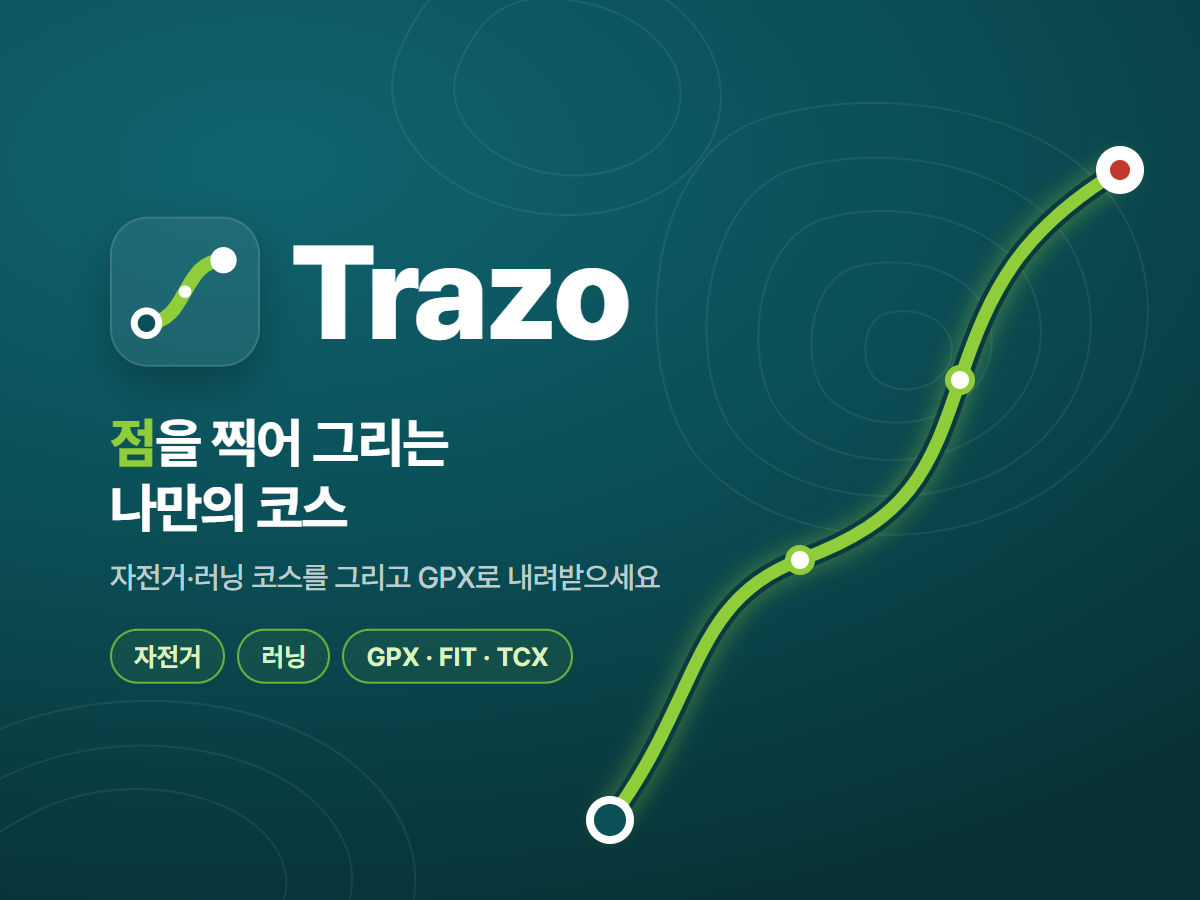
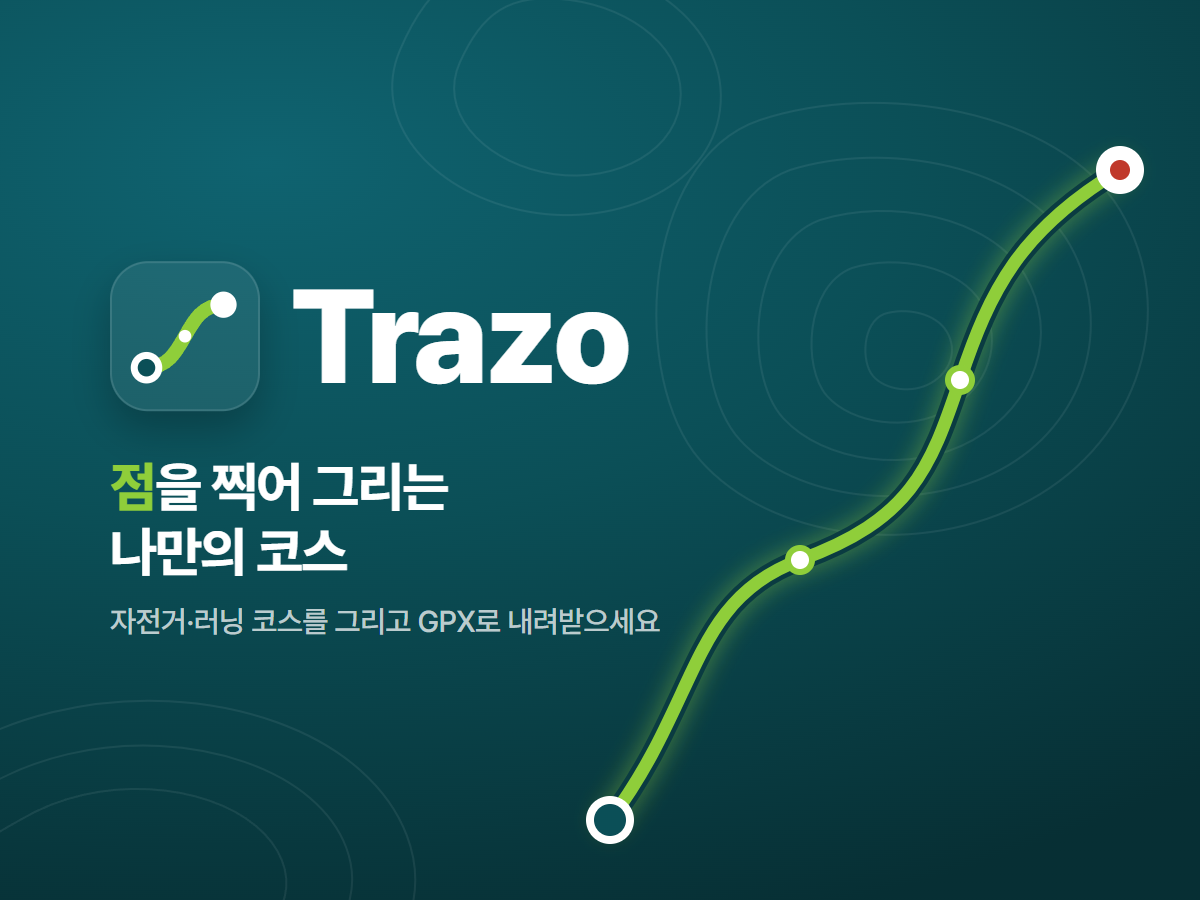
feat: 공유 링크 미리보기에 코스 이름 표시, 데스크톱 경로 위 클릭·우클릭 수정
- 공유 코스 링크(/c/<토큰>)를 카카오톡 등에 붙이면 코스 이름이 제목,
  'Trazo · 점을 찍어 그리는 나만의 코스'와 거리·상승 고도가 부제목으로 보이도록
  - 백엔드 GET /og/c/{token}이 태그를 만들고 nginx SSI가 index.html에 끼워 넣음
  - 비공개·삭제된 코스는 이름을 드러내지 않고, 백엔드가 응답하지 않으면 기본 제목만 넣음
  - 이미지·주소를 고정 도메인 대신 접속한 도메인 기준으로 만듦 (코스 이미지 바닥글도 동일)
- 미리보기 이미지에서 자전거·러닝·GPX FIT TCX 배지 제거
- 데스크톱에서 경로 위 클릭(웨이포인트 추가)과 우클릭(로드뷰 메뉴)이 동작하지 않던 문제 수정
  - 커서 아래에 생기는 위치 점(카카오 마커)이 클릭을 가로채던 것을 이벤트를 통과시키는 오버레이로 바꿈

Changed region(s): [[0.0925, 0.4667, 0.555, 0.7778], [0.2467, 0.2489, 0.5242, 0.4356], [0.0925, 0.2489, 0.2158, 0.4356]]

diff --git a/frontend/index.html b/frontend/index.html
@@ -7,22 +7,30 @@
   <link rel="icon" type="image/svg+xml" href="/favicon.svg" />
   <link rel="apple-touch-icon" href="/apple-touch-icon.png" />
   <meta name="theme-color" content="#0B4F57" />
+  <!--
+    카카오톡·페이스북·슬랙 등의 링크 미리보기 (이미지 원본은 design/og-image.html).
+    운영 nginx가 SSI로 처리합니다: 공유 코스 링크(/c/<토큰>)는 백엔드가 만든 코스 이름 태그를 넣고,
+    다른 주소는 아래 기본 태그를 접속한 도메인 기준으로 씁니다. 개발 서버에서는 SSI 주석이 그대로 남습니다.
+  -->
+  <!--# if expr="$request_uri = /^\/c\/([A-Za-z0-9_-]{6,64})(?:[\/?]|\z)/" -->
+  <!--# block name="og_fallback" --><title>Trazo (트라소) | 점을 찍어 그리는 나만의 코스</title><!--# endblock -->
+  <!--# include virtual="/api/og/c/$1" stub="og_fallback" -->
+  <!--# else -->
   <title>Trazo (트라소) | 자전거·러닝 코스 GPX 만들기</title>
   <meta name="description" content="지도 위에 점을 찍어 자전거·러닝 코스를 만드는 Trazo(트라소). 종목에 맞는 길찾기로 경로와 고도를 확인하고 GPX 파일로 내려받으세요." />
-  <!-- 카카오톡·페이스북·슬랙 등의 링크 미리보기. 이미지 원본은 design/og-image.html입니다. -->
   <meta property="og:type" content="website" />
   <meta property="og:site_name" content="Trazo" />
   <meta property="og:locale" content="ko_KR" />
-  <meta property="og:url" content="https://trazo.kro.kr/" />
+  <meta property="og:url" content="https://<!--# echo var='host' default='' -->/" />
   <meta property="og:title" content="Trazo (트라소) | 점을 찍어 그리는 나만의 코스" />
   <meta property="og:description" content="지도 위에 점을 찍어 자전거·러닝 코스를 만들고, 고도와 경사를 확인해 GPX·FIT 파일로 내려받으세요." />
-  <meta property="og:image" content="https://trazo.kro.kr/og-image.png" />
+  <meta property="og:image" content="https://<!--# echo var='host' default='' -->/og-image.png" />
   <meta property="og:image:width" content="1200" />
   <meta property="og:image:height" content="900" />
-  <meta property="og:image:alt" content="Trazo 로고와 '점을 찍어 그리는 나만의 코스' 소개 문구" />
   <meta name="twitter:card" content="summary_large_image" />
   <meta name="twitter:title" content="Trazo (트라소) | 점을 찍어 그리는 나만의 코스" />
-  <meta name="twitter:image" content="https://trazo.kro.kr/og-image.png" />
+  <meta name="twitter:image" content="https://<!--# echo var='host' default='' -->/og-image.png" />
+  <!--# endif -->
   <link rel="preconnect" href="https://cdn.jsdelivr.net" crossorigin />
   <link rel="stylesheet" href="https://cdn.jsdelivr.net/gh/orioncactus/pretendard@v1.3.9/dist/web/variable/pretendardvariable-dynamic-subset.min.css" />
   <script type="text/javascript" src="//dapi.kakao.com/v2/maps/sdk.js?appkey=c3b4179a9bd3e0eb5e124c5e0cc5da49"></script>

diff --git a/frontend/src/App.jsx b/frontend/src/App.jsx
@@ -4,7 +4,7 @@ import { useState, useCallback, useRef, useEffect, useMemo } from 'react';
 import { Map, MapMarker, Polyline, CustomOverlayMap } from 'react-kakao-maps-sdk';
 import { onAuthStateChanged } from 'firebase/auth';
 
-import { markerIcons, HOVER_MARKER_ICON } from './constants';
+import { markerIcons } from './constants';
 import { useHistoryState } from './hooks/useHistoryState';
 import { useIsMobile } from './hooks/useMediaQuery';
 import { useNickname } from './hooks/useNickname';
@@ -220,15 +220,15 @@ function App() {
   const lastPointerTypeRef = useRef('mouse'); // 마지막으로 지도를 누른 입력 장치
   const editRef = useRef(null);
 
-  // 고도 차트를 훑을 때 지도에 위치를 보여주는 점
+  // 고도 차트를 훑거나 코스 근처에 마우스를 올렸을 때 지도에 위치를 보여주는 점.
+  // 커서 바로 아래에 생기므로, 카카오 마커 대신 마우스 이벤트를 통과시키는 오버레이로 그려
+  // 경로 위 클릭(웨이포인트 추가)과 우클릭(로드뷰 메뉴)이 지도에 그대로 전달되게 합니다.
   useEffect(() => {
     if (!map) return;
-    const markerImage = new window.kakao.maps.MarkerImage(
-      HOVER_MARKER_ICON,
-      new window.kakao.maps.Size(24, 24),
-      { offset: new window.kakao.maps.Point(12, 12) }
-    );
-    const marker = new window.kakao.maps.Marker({ position: map.getCenter(), image: markerImage, zIndex: 100 });
+    const content = document.createElement('div');
+    content.className = 'hover-dot';
+    content.setAttribute('aria-hidden', 'true');
+    const marker = new window.kakao.maps.CustomOverlay({ position: map.getCenter(), content, zIndex: 100, clickable: false });
     marker.setMap(map);
     marker.setVisible(false);
     hoverMarkerRef.current = marker;

diff --git a/frontend/design/og-image.html b/frontend/design/og-image.html
@@ -43,16 +43,6 @@
   .tagline { margin-top: 44px; font-size: 54px; font-weight: 750; letter-spacing: -1.5px; line-height: 1.2; }
   .tagline b { color: #8FCE3A; font-weight: 800; }
   .sub { margin-top: 18px; font-size: 30px; font-weight: 500; color: rgba(255, 255, 255, 0.72); letter-spacing: -0.5px; }
-  .chips { margin-top: 34px; display: flex; gap: 12px; }
-  .chip {
-    padding: 10px 22px;
-    border-radius: 999px;
-    border: 2px solid rgba(143, 206, 58, 0.75);
-    color: #DDF2BF;
-    font-size: 26px;
-    font-weight: 700;
-    background: rgba(143, 206, 58, 0.08);
-  }
 </style>
 </head>
 <body>
@@ -103,7 +93,6 @@
     </div>
     <div class="tagline"><b>점</b>을 찍어 그리는<br>나만의 코스</div>
     <div class="sub">자전거·러닝 코스를 그리고 GPX로 내려받으세요</div>
-    <div class="chips"><span class="chip">자전거</span><span class="chip">러닝</span><span class="chip">GPX · FIT · TCX</span></div>
   </div>
 </body>
 </html>

diff --git a/frontend/src/utils/courseImage.js b/frontend/src/utils/courseImage.js
@@ -540,7 +540,7 @@ export const renderCourseImage = async ({ paper = 'A4', orientation = 'portrait'
         `예상 ${formatDuration(stats.distanceKm / speedKmh)}`,
     ].join('  ·  ');
     const footerLeft = '지도 © Kakao  ·  경로 데이터 © OpenStreetMap 기여자';
-    const footerRight = `trazo.kro.kr  ·  ${today()}`;
+    const footerRight = `${window.location.host}  ·  ${today()}`;
 
     // 웹 글꼴은 쓰는 글자만 받아 오므로, 그리기 전에 필요한 글자를 모두 불러 둡니다.
     const allText = [title, statsLine, footerLeft, footerRight, 'Trazo 고도 외개km0123456789m·…', ...waypoints.flatMap(w => [waypointLabel(w), w.note || ''])].join('');

diff --git a/frontend/src/styles/app.css b/frontend/src/styles/app.css
@@ -2619,3 +2619,14 @@
 .section__note svg {
   vertical-align: -2px;
 }
+
+/* 코스 위 현재 위치 점 (고도 차트·마우스와 연동). 클릭은 아래 지도로 통과합니다. */
+.hover-dot {
+  width: 22px;
+  height: 22px;
+  border-radius: 50%;
+  background: #15262C;
+  border: 3px solid #fff;
+  box-shadow: 0 1px 4px rgba(16, 40, 46, 0.35);
+  pointer-events: none;
+}

diff --git a/backend/main.py b/backend/main.py
@@ -14,6 +14,7 @@ from sqlalchemy import func, inspect, or_, text, update
 from sqlalchemy.exc import IntegrityError
 from typing import List, Literal, Optional, Any
 from fastapi import FastAPI, Query, HTTPException, Depends
+from fastapi import Request as HTTPRequest
 from fastapi.security import HTTPBearer, HTTPAuthorizationCredentials
 from pydantic import BaseModel, Field as PydanticField
 from contextlib import asynccontextmanager
@@ -708,6 +709,69 @@ def read_shared_course(token: str, session: Session = Depends(get_session), user
         "created_at": course.created_at,
         "published_at": course.published_at,
     }
+
+# --- 링크 미리보기 (카카오톡·페이스북 등) ---
+# 미리보기를 만드는 서비스는 자바스크립트를 실행하지 않으므로, 공유 링크(/c/<토큰>)의 index.html에
+# nginx SSI가 이 태그 조각을 끼워 넣습니다(frontend/nginx.conf). 코스 이름이 제목, 서비스 소개가 부제목이 됩니다.
+SITE_NAME = "Trazo"
+SITE_TAGLINE = "점을 찍어 그리는 나만의 코스"
+SPORT_LABELS = {"bike": "자전거", "run": "러닝"}
+
+def preview_base_url(request: HTTPRequest) -> str:
+    # 앞단 리버스 프록시가 넘겨준 주소를 우선 쓰고, 프로토콜을 모르면 HTTPS로 봅니다.
+    host = (request.headers.get("x-forwarded-host") or request.headers.get("host") or "").split(",")[0].strip()
+    proto = (request.headers.get("x-forwarded-proto") or "").split(",")[0].strip()
+    if not re.fullmatch(r"[A-Za-z0-9.-]+(:\d+)?", host):
+        return ""
+    return f"{proto if proto in ('http', 'https') else 'https'}://{host}"
+
+def html_attr(value: str) -> str:
+    return escape(value, {'"': "&quot;"})
+
+def preview_tags(base: str, path: str, title: str, description: str) -> str:
+    image = f"{base}/og-image.png"
+    meta = [
+        ("name", "description", description),
+        ("property", "og:type", "website"),
+        ("property", "og:site_name", SITE_NAME),
+        ("property", "og:locale", "ko_KR"),
+        ("property", "og:url", base + path),
+        ("property", "og:title", title),
+        ("property", "og:description", description),
+        ("property", "og:image", image),
+        ("property", "og:image:width", "1200"),
+        ("property", "og:image:height", "900"),
+        ("name", "twitter:card", "summary_large_image"),
+        ("name", "twitter:title", title),
+        ("name", "twitter:description", description),
+        ("name", "twitter:image", image),
+    ]
+    lines = [f"<title>{escape(title)}</title>"]
+    lines += [f'<meta {kind}="{key}" content="{html_attr(value)}" />' for kind, key, value in meta]
+    return "\n  ".join(lines) + "\n"
+
+@app.get("/og/c/{token}")
+def shared_course_preview(token: str, request: HTTPRequest, session: Session = Depends(get_session)):
+    base = preview_base_url(request)
+    path = f"/c/{token}"
+    title = f"{SITE_NAME} (트라소) | {SITE_TAGLINE}"
+    description = f"{SITE_NAME} · {SITE_TAGLINE}"
+    # 비공개로 바꿨거나 지운 코스는 코스 이름을 드러내지 않고 서비스 기본 미리보기를 보여줍니다.
+    try:
+        course = get_shared_course(session, token)
+    except HTTPException:
+        course = None
+    if course:
+        summary = course_summary(course)
+        title = course.title.strip()[:80] or title
+        facts = f"{SPORT_LABELS.get(course.sport, '자전거')} 코스 {summary['distance_km']:,.1f}km · 상승 {summary['ascent_m']:,}m"
+        description = f"{SITE_NAME} · {SITE_TAGLINE} | {facts}"
+    return Response(
+        content=preview_tags(base, path, title, description),
+        media_type="text/html; charset=utf-8",
+        # 공개 범위를 바꾸면 바로 반영되도록 오래 저장하지 않습니다.
+        headers={"Cache-Control": "public, max-age=300"},
+    )
 
 @app.post("/shared/{token}/copy")
 def copy_shared_course(token: str, data: CopyCourseRequest, session: Session = Depends(get_session), user_id: str = Depends(get_google_user)):

diff --git a/backend/tests/test_courses.py b/backend/tests/test_courses.py
@@ -206,6 +206,24 @@ class CommunityTests(unittest.TestCase):
         self.assertEqual(len(courses), 1)
         self.assertIsNone(courses[0]['folder_id'])
 
+    def test_shared_link_preview_tags(self):
+        course = self.create(title='2025 춘천 "그란폰도" <122km>')
+        token = self.client.put(f"/courses/{course['id']}", headers=self.owner, json={'visibility': 'link'}).json()['course']['share_token']
+        headers = {'Host': 'trazo.runvia.app'}
+        html = self.client.get(f'/og/c/{token}', headers=headers).text
+        # 코스 이름이 제목, 서비스 소개가 부제목이 되고, 주소는 접속한 도메인을 따릅니다.
+        self.assertIn('<title>2025 춘천 "그란폰도" &lt;122km&gt;</title>', html)
+        self.assertIn('<meta property="og:title" content="2025 춘천 &quot;그란폰도&quot; &lt;122km&gt;" />', html)
+        self.assertIn('content="Trazo · 점을 찍어 그리는 나만의 코스 | 자전거 코스', html)
+        self.assertIn(f'<meta property="og:url" content="https://trazo.runvia.app/c/{token}" />', html)
+        self.assertIn('<meta property="og:image" content="https://trazo.runvia.app/og-image.png" />', html)
+        # 비공개로 바꾸거나 없는 코스는 코스 이름을 드러내지 않습니다.
+        self.client.put(f"/courses/{course['id']}", headers=self.owner, json={'visibility': 'private'})
+        for path in (f'/og/c/{token}', '/og/c/unknown12345'):
+            html = self.client.get(path, headers=headers).text
+            self.assertNotIn('그란폰도', html)
+            self.assertIn('<meta property="og:title" content="Trazo (트라소) | 점을 찍어 그리는 나만의 코스" />', html)
+
     def test_visibility_and_shared_access(self):
         private = self.create()
         self.assertEqual(private['visibility'], 'private')

diff --git a/README.md b/README.md
@@ -93,12 +93,21 @@ Trazo는 스페인어로 획이나 선을 뜻하며, 지도 위에 선을 그어
 
 처음 구글 로그인하면 닉네임을 정합니다. 닉네임은 한글·영문·숫자·밑줄로 3~16자이고, 대소문자만 다른 닉네임도 중복으로 봅니다. 계정 메뉴의 **닉네임 변경**으로 바꿀 수 있으며, 바꾸면 이미 공개한 코스와 댓글에도 새 닉네임이 표시됩니다. 전체 공개, 내 코스에 추가, 좋아요, 댓글은 닉네임을 정한 뒤에 사용할 수 있습니다.
 
-## 링크 미리보기 이미지
+## 링크 미리보기
 
-카카오톡·페이스북·슬랙 등에 링크를 붙이면 `frontend/public/og-image.png`(1200×900, 4:3)를 미리보기로 보여줍니다. 태그는 `frontend/index.html`의 `og:*`·`twitter:*`에 있고, 이미지 주소는 절대 주소(`https://trazo.kro.kr/og-image.png`)여야 합니다. 공유 코스 링크(`/c/<토큰>`)도 같은 이미지를 씁니다.
+카카오톡·페이스북·슬랙 등에 링크를 붙이면 `frontend/public/og-image.png`(1200×900, 4:3)와 제목·설명을 미리보기로 보여줍니다. 미리보기를 만드는 서비스는 자바스크립트를 실행하지 않으므로, 운영 nginx가 SSI로 `index.html`의 태그를 채웁니다(`frontend/nginx.conf`의 `ssi on`).
 
+| 주소 | 제목 | 설명(부제목) |
+|---|---|---|
+| 공유 코스 `/c/<토큰>` | 코스 이름 (예: 2025 비앙키그란폰도춘천 그란폰도 122.91km) | `Trazo · 점을 찍어 그리는 나만의 코스 \| 자전거 코스 122.9km · 상승 1,800m` |
+| 비공개·삭제된 코스 | 서비스 기본 제목 | `Trazo · 점을 찍어 그리는 나만의 코스` |
+| 그 밖의 주소 | 서비스 기본 제목 | 서비스 소개 |
+
+- 공유 코스 태그는 백엔드 `GET /og/c/{token}`이 만들고, `index.html`의 `<!--# include -->`가 끼워 넣습니다. 백엔드가 응답하지 않으면 서비스 기본 제목만 넣습니다.
+- 이미지·주소는 접속한 도메인(`Host`, 앞단 프록시의 `X-Forwarded-Host`·`X-Forwarded-Proto`) 기준의 절대 주소로 씁니다. 앞단 리버스 프록시가 원래 `Host`를 넘겨줘야 합니다.
+- 개발 서버(Vite)는 SSI를 처리하지 않아 주석이 그대로 남습니다. 미리보기는 운영 이미지(nginx)에서 확인합니다.
 - 이미지 원본은 `frontend/design/og-image.html`입니다. 문구를 바꾼 뒤 브라우저에서 1200×900 크기로 열어 캡처하고 `og-image.png`로 저장합니다. 1.91:1로 잘라 보여주는 서비스를 위해 로고와 문구는 위아래 136px 안쪽에 둡니다.
-- 카카오톡은 미리보기를 캐시하므로, 이미지를 바꾸면 [카카오 공유 디버거](https://developers.kakao.com/tool/debugger/sharing)에서 주소를 넣고 캐시를 초기화합니다.
+- 카카오톡은 미리보기를 캐시하므로, 바꾼 뒤에는 [카카오 공유 디버거](https://developers.kakao.com/tool/debugger/sharing)에서 주소를 넣고 캐시를 초기화합니다.
 
 ## 실행 준비
 
@@ -264,6 +273,6 @@ npm run build --prefix frontend
 python -m unittest discover -s backend/tests
 ```
 
-백엔드 테스트 전에는 `backend/requirements.txt`의 의존성을 설치해야 합니다. 테스트는 인증 실패, 계정별 코스 접근, 삭제된 코스 접근 제한, 기존 테이블 변경, 코스 종목 저장, 닉네임 규칙과 중복, 폴더, 공개 범위별 접근, 담은 사람 수, 좋아요·댓글 권한, 커뮤니티 정렬·검색, 웨이포인트 저장·검증, TCX 코스 포인트와 종목별 경로 옵션 검증을 확인합니다.
+백엔드 테스트 전에는 `backend/requirements.txt`의 의존성을 설치해야 합니다. 테스트는 인증 실패, 계정별 코스 접근, 삭제된 코스 접근 제한, 기존 테이블 변경, 코스 종목 저장, 닉네임 규칙과 중복, 폴더, 공개 범위별 접근, 담은 사람 수, 좋아요·댓글 권한, 커뮤니티 정렬·검색, 웨이포인트 저장·검증, TCX 코스 포인트, 공유 링크 미리보기 태그와 종목별 경로 옵션 검증을 확인합니다.
 
 전체 프론트엔드 코드 검사에는 `npm run lint --prefix frontend`를 사용합니다. 현재 검사 오류 없이 통과합니다.
